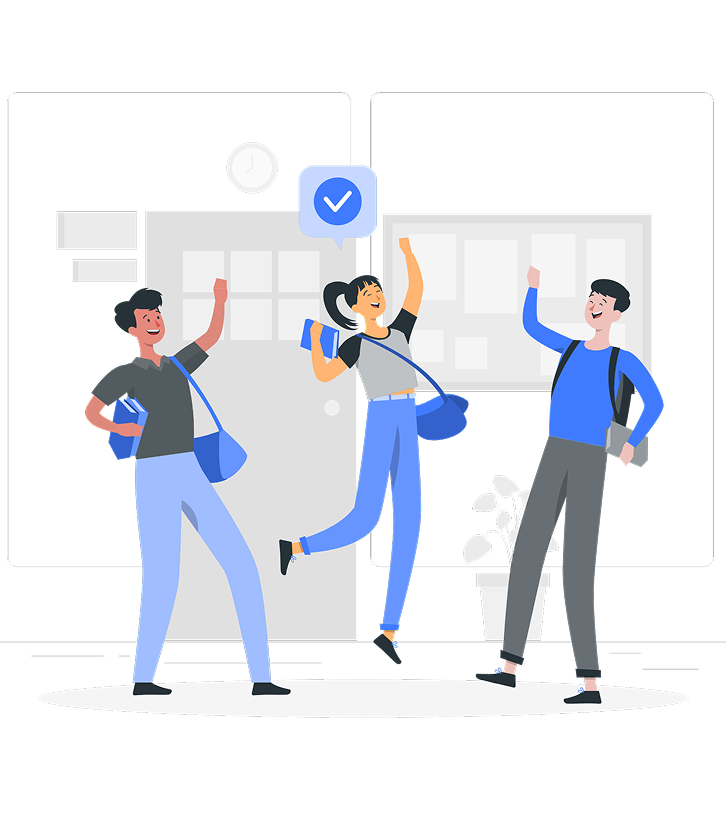
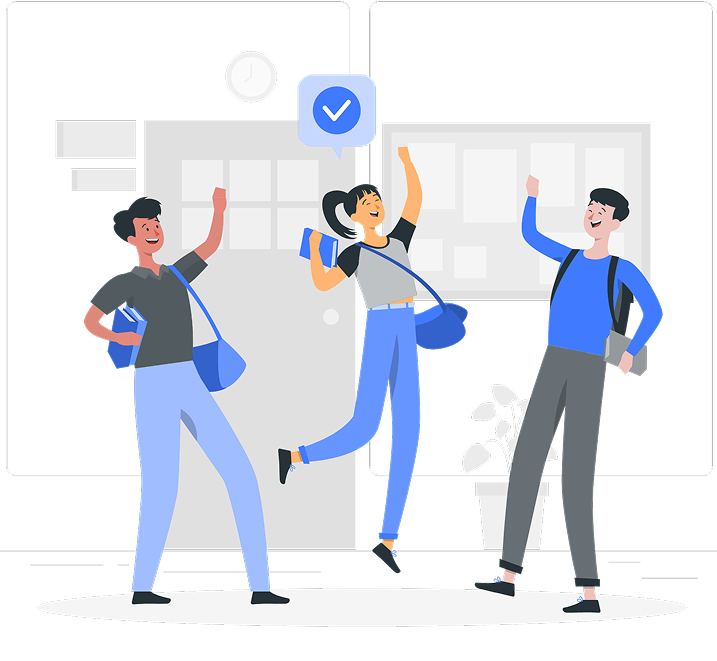
fix reponsive

diff --git a/src/pages/Login/index.jsx b/src/pages/Login/index.jsx
@@ -33,12 +33,12 @@ const LoginPage = () => {
 
   return (
     <div className="bg-[#f9f9f9] flex justify-center items-center">
-      <div className="w-full max-w-[1600px] flex flex-col lg:flex-row justify-center lg:justify-between items-center gap-4 md:gap-8 lg:gap-12 xl:gap-16 px-4 lg:px-8">
+      <div className="w-full max-w-[1400px] flex flex-col lg:flex-row justify-center lg:justify-between items-center gap-4 md:gap-8 lg:gap-12 xl:gap-16 px-12 lg:px-24">
         {/* Login Form */}
         <div 
           className="bg-white rounded-lg shadow-[0_12px_34px_0_rgba(13,10,44,0.08)] w-full 
-                    min-w-[380px] max-w-[600px] 
-                    h-auto min-h-[699px] p-8
+                    min-w-[380px] max-w-[570px] 
+                    h-auto min-h-[590px] p-8
                     lg:w-[600px]"
         >
           <div className="h-full flex flex-col">
@@ -62,7 +62,7 @@ const LoginPage = () => {
                 layout="vertical"
                 onFinish={onSubmit}
                 requiredMark={false}
-                className="space-y-5"
+                className="space-y-5 md:max-w-[516px]"
               >
                 <Form.Item
                   name="email"
@@ -77,7 +77,7 @@ const LoginPage = () => {
                   <Input
                     suffix={<MailOutlined className="text-gray-400" />}
                     placeholder="Enter your email here"
-                    className="h-[46px] rounded-lg border-gray-300"
+                    className="max-w-[516px] h-[46px] rounded-lg border-gray-300"
                   />
                 </Form.Item>
 
@@ -93,7 +93,7 @@ const LoginPage = () => {
                 >
                   <Input.Password
                     placeholder="* * * * * * * *"
-                    className="h-[46px] rounded-lg border-gray-300"
+                    className="max-w-[516px] h-[46px] rounded-lg border-gray-300"
                     iconRender={(visible) =>
                       visible ? <EyeOutlined /> : <EyeInvisibleOutlined />
                     }
@@ -123,24 +123,12 @@ const LoginPage = () => {
                   Login
                 </Button>
               </div>
-
-              <div className="text-center mt-4">
-                <Text className="text-gray-600 text-sm">
-                  Don't have an account?{" "}
-                  <span
-                    className="text-blue-700 hover:underline cursor-pointer"
-                    onClick={() => navigate("/register")}
-                  >
-                    Sign up
-                  </span>
-                </Text>
-              </div>
             </div>
           </div>
         </div>
 
         {/* Image */}
-        <div className="flex justify-center w-full md:w-auto">
+        <div className="hidden lg:flex justify-center w-full md:w-auto">
           <img
             src={loginHappyStudent}
             alt="Happy students celebrating"

diff --git a/src/features/profile/ui/Modal/ProfileUpdate.jsx b/src/features/profile/ui/Modal/ProfileUpdate.jsx
@@ -63,9 +63,9 @@ const ProfileUpdate = ({ isOpen, onClose, userData }) => {
               name="fullName"
               required={false}
               rules={[yupSync(UpdateProfileSchema)]}
-              className="w-full md:w-auto"
+              className="w-full"
             >
-              <Input className="h-[46px] w-[458px] rounded-lg" />
+              <Input className="h-[46px] w-full max-w-[458px] rounded-lg" />
             </Form.Item>
 
             <Form.Item
@@ -78,9 +78,9 @@ const ProfileUpdate = ({ isOpen, onClose, userData }) => {
               name="code"
               required={false}
               rules={[yupSync(UpdateProfileSchema)]}
-              className="w-full md:w-auto"
+              className="w-full"
             >
-              <Input className="h-[46px] w-[458px] rounded-lg" disabled/>
+              <Input className="h-[46px] w-full max-w-[458px] rounded-lg" disabled/>
             </Form.Item>
 
             <Form.Item
@@ -92,9 +92,9 @@ const ProfileUpdate = ({ isOpen, onClose, userData }) => {
               name="bod"
               required={false}
               rules={[yupSync(UpdateProfileSchema)]}
-              className="w-full md:w-auto"
+              className="w-full"
             >
-              <Input className="h-[46px] w-[458px] rounded-lg" />
+              <Input className="h-[46px] w-full max-w-[458px] rounded-lg" placeholder="dd/mm/yyyy" />
             </Form.Item>
           </div>
 
@@ -109,9 +109,9 @@ const ProfileUpdate = ({ isOpen, onClose, userData }) => {
               name="email"
               required={false}
               rules={[yupSync(UpdateProfileSchema)]}
-              className="w-full md:w-auto"
+              className="w-full md:max-w-[458px]"
             >
-              <Input className="h-[46px] w-[458px] rounded-lg" disabled />
+              <Input className="h-[46px] w-full max-w-[458px] rounded-lg" disabled />
             </Form.Item>
 
             <Form.Item
@@ -122,9 +122,9 @@ const ProfileUpdate = ({ isOpen, onClose, userData }) => {
               }
               name="phoneNumber"
               rules={[yupSync(UpdateProfileSchema)]}
-              className="w-full md:w-auto"
+              className="w-full md:max-w-[458px]"
             >
-              <Input className="h-[46px] w-[458px] rounded-lg" />
+              <Input className="h-[46px] w-full max-w-[458px] rounded-lg" />
             </Form.Item>
 
             <Form.Item
@@ -134,9 +134,9 @@ const ProfileUpdate = ({ isOpen, onClose, userData }) => {
                 </div>
               }
               name="address"
-              className="w-full md:w-auto"
+              className="w-full md:max-w-[458px]"
             >
-              <Input className="h-[46px] w-[458px] rounded-lg" />
+              <Input className="h-[46px] w-full max-w-[458px] rounded-lg" />
             </Form.Item>
           </div>
 

diff --git a/src/features/profile/ui/Modal/ChangePassword.jsx b/src/features/profile/ui/Modal/ChangePassword.jsx
@@ -36,11 +36,11 @@ const ChangePassword = ({ isOpen, onClose }) => {
       footer={null}
       centered
       onCancel={onClose}
-      className="w-[90%] md:w-[600px] lg:w-[600px]"
-      width={600}
+      className="w-[90%] md:w-[500px] lg:w-[500px]"
+      width={500}
     >
-      <div className="p-4 md:p-6 lg:p-8 h-full">
-        <Typography.Title level={2} className="font-bold mb-1 text-[30px]">
+      <div className="h-full">
+        <Typography.Title level={2} className="font-bold mb-1 text-[30px] mt-4">
           Change Password
         </Typography.Title>
         <p className="text-gray-600 mb-3 text-[16px]">
@@ -63,9 +63,9 @@ const ChangePassword = ({ isOpen, onClose }) => {
               name="currentPassword"
               required={false}
               rules={[yupSync(ChangePasswordSchema)]}
-              className="w-full"
+              className="w-full md:max-w-[458px]"
             >
-              <Input.Password className="h-[46px] w-full rounded-lg" placeholder="Current password" />
+              <Input.Password className="h-[46px] w-full max-w-[458px] rounded-lg" placeholder="Current password" />
             </Form.Item>
             <Form.Item
               label={
@@ -77,9 +77,9 @@ const ChangePassword = ({ isOpen, onClose }) => {
               name="newPassword"
               required={false}
               rules={[yupSync(ChangePasswordSchema)]}
-              className="w-full"
+              className="w-full md:max-w-[458px]"
             >
-              <Input.Password className="h-[46px] w-full rounded-lg" placeholder="New password" />
+              <Input.Password className="h-[46px] w-full max-w-[458px] rounded-lg" placeholder="New password" />
             </Form.Item>
             <Form.Item
               label={
@@ -91,7 +91,7 @@ const ChangePassword = ({ isOpen, onClose }) => {
               name="confirmNewPassword"
               required={false}
               dependencies={["newPassword"]}
-              className="w-full"
+              className="w-full md:max-w-[458px]"
               rules={[
                 {
                   required: true,
@@ -107,11 +107,11 @@ const ChangePassword = ({ isOpen, onClose }) => {
                 }),
               ]}
             >
-              <Input.Password className="h-[46px] w-full rounded-lg" placeholder="Confirm new password" />
+              <Input.Password className="h-[46px] w-full max-w-[458px] rounded-lg" placeholder="Confirm new password" />
             </Form.Item>
           </div>
 
-          <div className="w-full flex justify-end gap-3 mt-6">
+          <div className="w-full flex justify-end gap-3 mt-6 mb-4">
             <Button
               type="default"
               htmlType="button"

diff --git a/src/pages/Profile/index.jsx b/src/pages/Profile/index.jsx
@@ -39,8 +39,8 @@ const ProfilePage = () => {
   };
 
   const InfoField = ({ label, value }) => (
-    <div>
-      <Text className="text-gray-500 text-sm block mb-1">{label}</Text>
+    <div className="text-[16px]">
+      <Text className="text-gray-500 text-sm block mb-2">{label}</Text>
       <Text className={value !== 'No information' ? 'text-gray-900 font-semibold' : 'text-gray-500'}>
         {value || 'No information'}
       </Text>
@@ -58,14 +58,14 @@ const ProfilePage = () => {
           <Button
             type="default"
             onClick={() => setOpenKey("change-password")}
-            className="min-w-[140px] md:min-w-[160px] h-[40px] rounded-full border border-[#003087] text-[#003087] hover:text-[#0066CC] hover:border-[#0066CC] font-medium"
+            className="min-w-[140px] md:min-w-[160px] h-[50px] rounded-full border border-[#003087] text-[#003087] hover:text-[#0066CC] hover:border-[#0066CC] font-medium"
           >
             Change password
           </Button>
           <Button
             type="primary"
             onClick={() => setOpenKey("update-profile")}
-            className="min-w-[140px] md:min-w-[160px] h-[40px] rounded-full bg-[#003087] hover:bg-[#002A6B] border-none font-medium"
+            className="min-w-[140px] md:min-w-[160px] h-[50px] rounded-full bg-[#003087] hover:bg-[#002A6B] border-none font-medium"
           >
             Update profile
           </Button>
@@ -94,9 +94,9 @@ const ProfilePage = () => {
             />
           </div>
           <div>
-            <Title level={4} className="m-0">{user?.firstName } {user?.lastName}</Title>
-            <Text className="text-gray-500 font-semibold">{user?.role || 'N/A'}</Text>
-            <Text className="block text-gray-500 font-semibold">{user?.email}</Text>
+            <Title level={5} className="font-bold text-[#3758F9]">{user?.firstName } {user?.lastName}</Title>
+            <Text className="text-gray-500">{user?.role || 'N/A'}</Text>
+            <Text className="block text-gray-500">{user?.email}</Text>
           </div>
         </div>
       </div>

diff --git a/src/features/profile/schema.js b/src/features/profile/schema.js
@@ -16,10 +16,14 @@ export const ChangePasswordSchema = Yup.object().shape({
 export const UpdateProfileSchema = Yup.object().shape({
   fullName: Yup.string().required("Full name is required"),
   code: Yup.string().required("Code is required"),
-  bod: Yup.string().nullable(),
+  bod: Yup.string()
+    .matches(/^\d{2}\/\d{2}\/\d{4}$/, "BOD must be in the format dd/mm/yyyy")
+    .nullable(),
   email: Yup.string()
     .email("Enter a valid email")
     .required("Email is required"),
-  phoneNumber: Yup.string().nullable(),
+  phoneNumber: Yup.string()
+    .matches(/^\d{9,10}$/, "Phone number must be 9-10 digits")
+    .nullable(),
   address: Yup.string().nullable(),
 });
